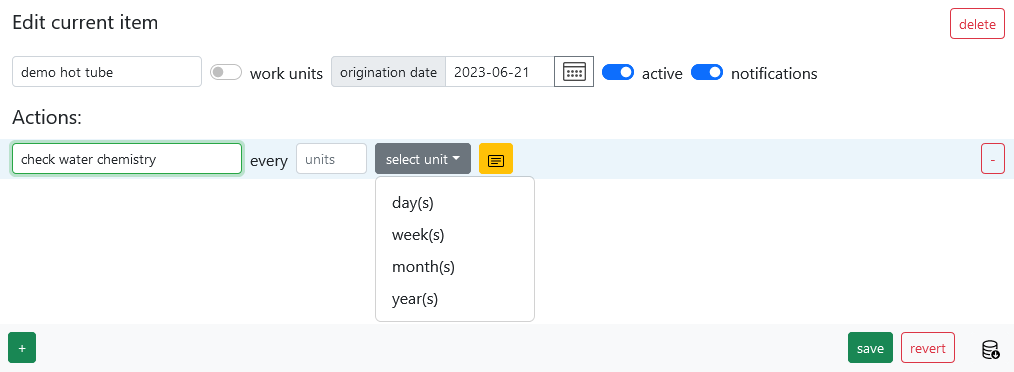
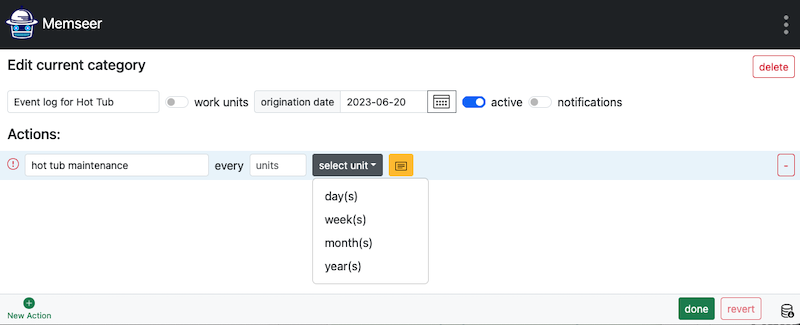
Update picture"newly_created_action_complete":overview

diff --git a/docs/guides/overview.md b/docs/guides/overview.md
@@ -154,7 +154,7 @@ There are two ways to create actions: directly, by navigating to "Item & Actions
 
 The first method involves navigating to "Item & Actions" and adding new actions. Here's an image that illustrates this process:
 
-![](../../assets/images/guides/overview/create_action_edit_category_and_actions.png)
+![](../../assets/images/guides/overview/create_action_edit_item_and_actions.png)
 
 The second method is useful when you already have events and want to create actions based on them. To do this, navigate to an event log and identify the event that requires an action. For example, let's say we have an event called "check water chemistry," which occurs every week based on the dates between events.
 
